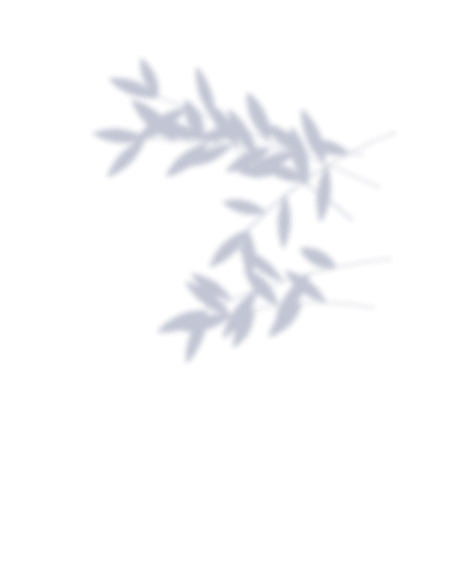
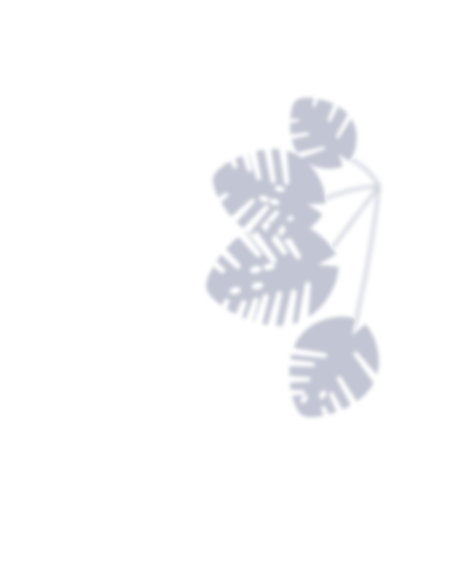
Swap the sill plant's shadow for a monstera
Claude-Session: https://claude.ai/code/session_017UFRXa4SwvyLBFP9cduvqi

Changed region(s): [[0.2099, 0.0936, 0.8094, 0.7487], [0.7794, 0.312, 0.8094, 0.3432]]

diff --git a/styles.css b/styles.css
@@ -200,7 +200,7 @@ body {
     dapple-drift 7.3s ease-in-out infinite alternate;
 }
 
-/* The plant on the sill: sharper sprigs, swaying and fluttering. Canvas:
+/* The monstera on the sill: big split leaves, swaying and fluttering. Canvas:
    x 350 to 1200, y -300 to 750; it sways about its base at (1040, 40). */
 .light::after,
 .sun::after {
@@ -800,5 +800,5 @@ body::after {
 
 .light::after,
 .sun::after {
[2 lines of base64/hex data omitted]
 }

diff --git a/README.md b/README.md
@@ -8,7 +8,7 @@ A static site with no build step, served by Vercel from the repository root.
 - `fonts/`: self-hosted [Instrument Sans](https://github.com/Instrument/instrument-sans), under the SIL Open Font License
 - `fonts/trjn-davinci-*-trial.woff2`: [TRJN DaVinci](http://virgileflores.com/typefoundry) by Virgile Flores: Semibold for the main heading, Italic for project names. **This is the trial version**: replace it with licensed web font files before the site goes live.
 - `mat.svg`: the cutting mat's wear (grain, specks and fine scratches), tiled over the page
-- `light/`: the window light that falls across the mat. `patch.webp` is the patch of sun through the window (over the ambient light, which is drawn in CSS, and multiplied over the page), `glow.webp` the sun's lift (screened over it), and `near.webp` and `far.webp` the leaf shadows from a plant on the sill and a tree outside, which sway
+- `light/`: the window light that falls across the mat. `patch.webp` is the patch of sun through the window (over the ambient light, which is drawn in CSS, and multiplied over the page), `glow.webp` the sun's lift (screened over it), and `near.webp` and `far.webp` the leaf shadows from a monstera on the sill and a tree outside, which sway
 - `mat.svg` and the `light/` images are inlined at the end of `styles.css`, so the lit mat is painted complete in the very first frame. After changing one, inline it there again
 - `og.png`: the link preview image (1200×630), a render of the homepage's headline
 - `apple-touch-icon.png`, `favicon.*`: icons
